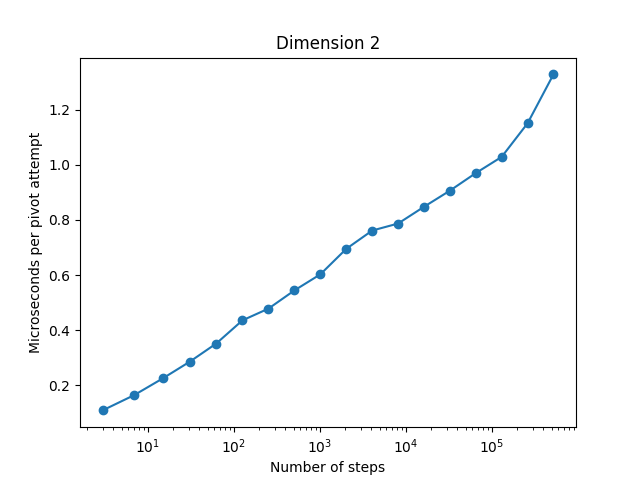
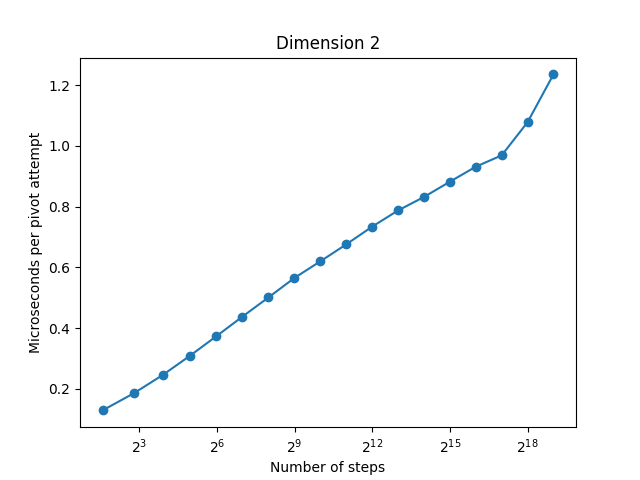
Update benchmarks

diff --git a/README.md b/README.md
@@ -94,11 +94,13 @@ For usage instructions, run the following command (assuming the `pivot` executab
 
 A simple [benchmark script](./scripts/benchmark.py) in Python (requires matplotlib) is included.
 Semi-log plots of running times per pivot attempt (after a warm up period) in dimensions 2 and 3 are provided below.
-Both plots reflect the results of benchmarking on an Apple Silicon M3 Pro CPU.
+Both plots reflect the results of benchmarking on an Apple Silicon M1 Pro CPU. Random seed 42 was used.
 
 | | |
 |-|-|
 |![](assets/bench_d2.png)|![](assets/bench_d3.png)|
+
+The raw data for these plots can be found in [times2.json](bench/times2.json) and [times3.json](bench/times3.json).
 
 ## Examples
 
